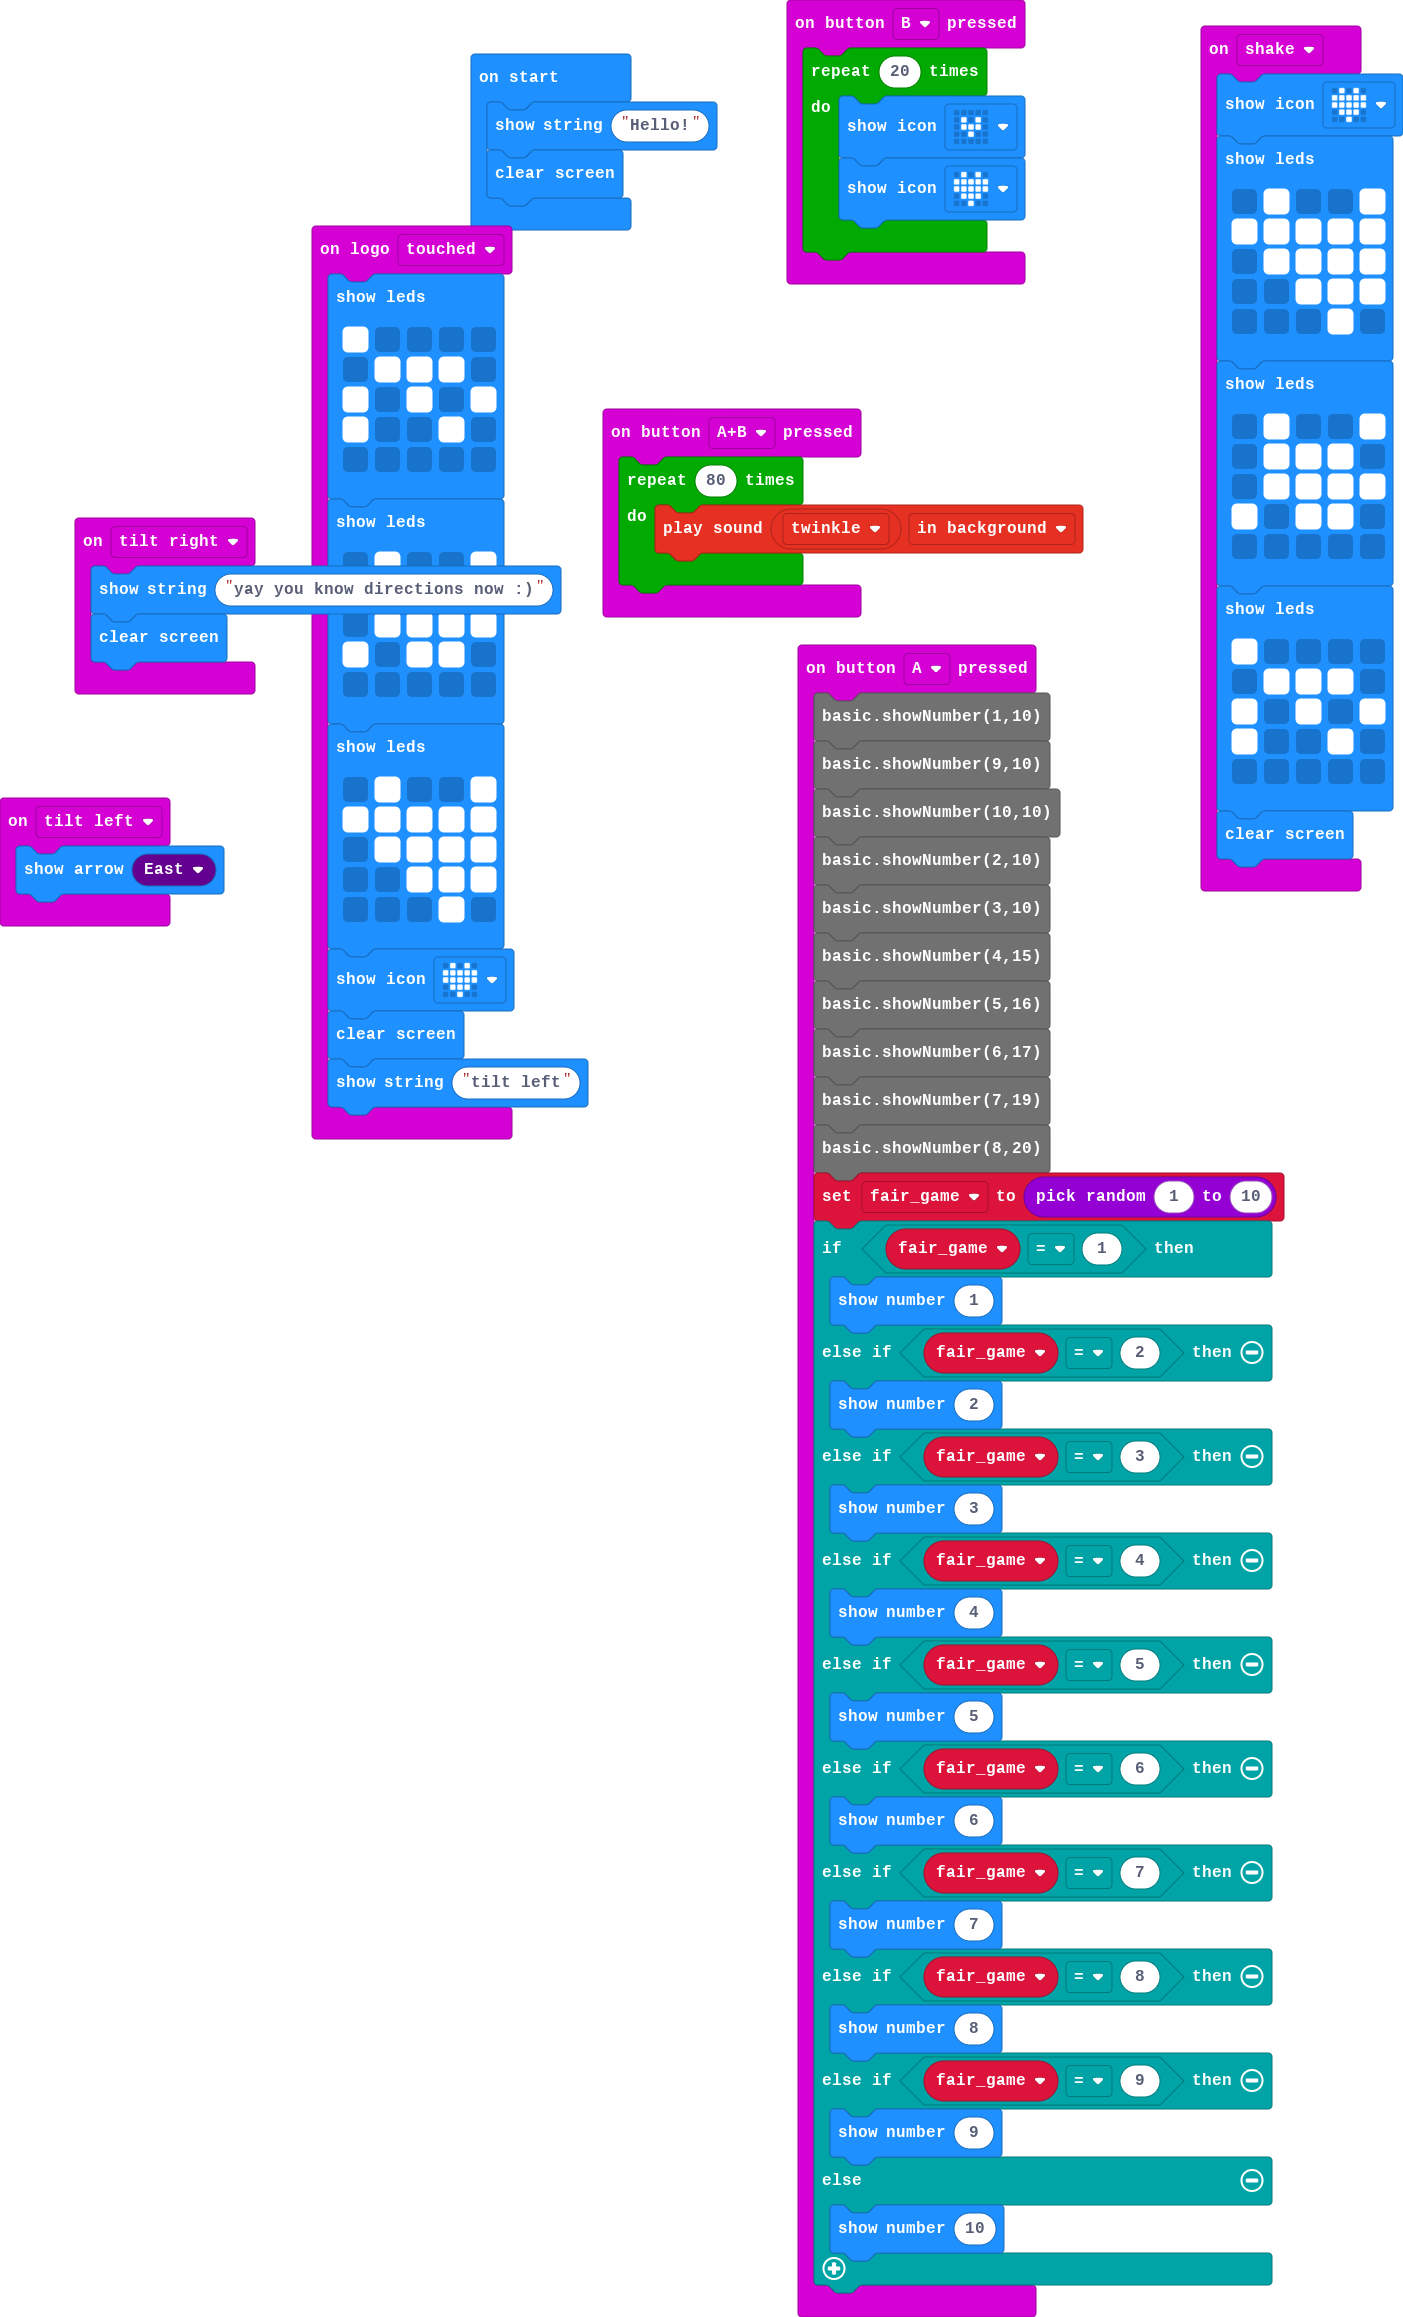
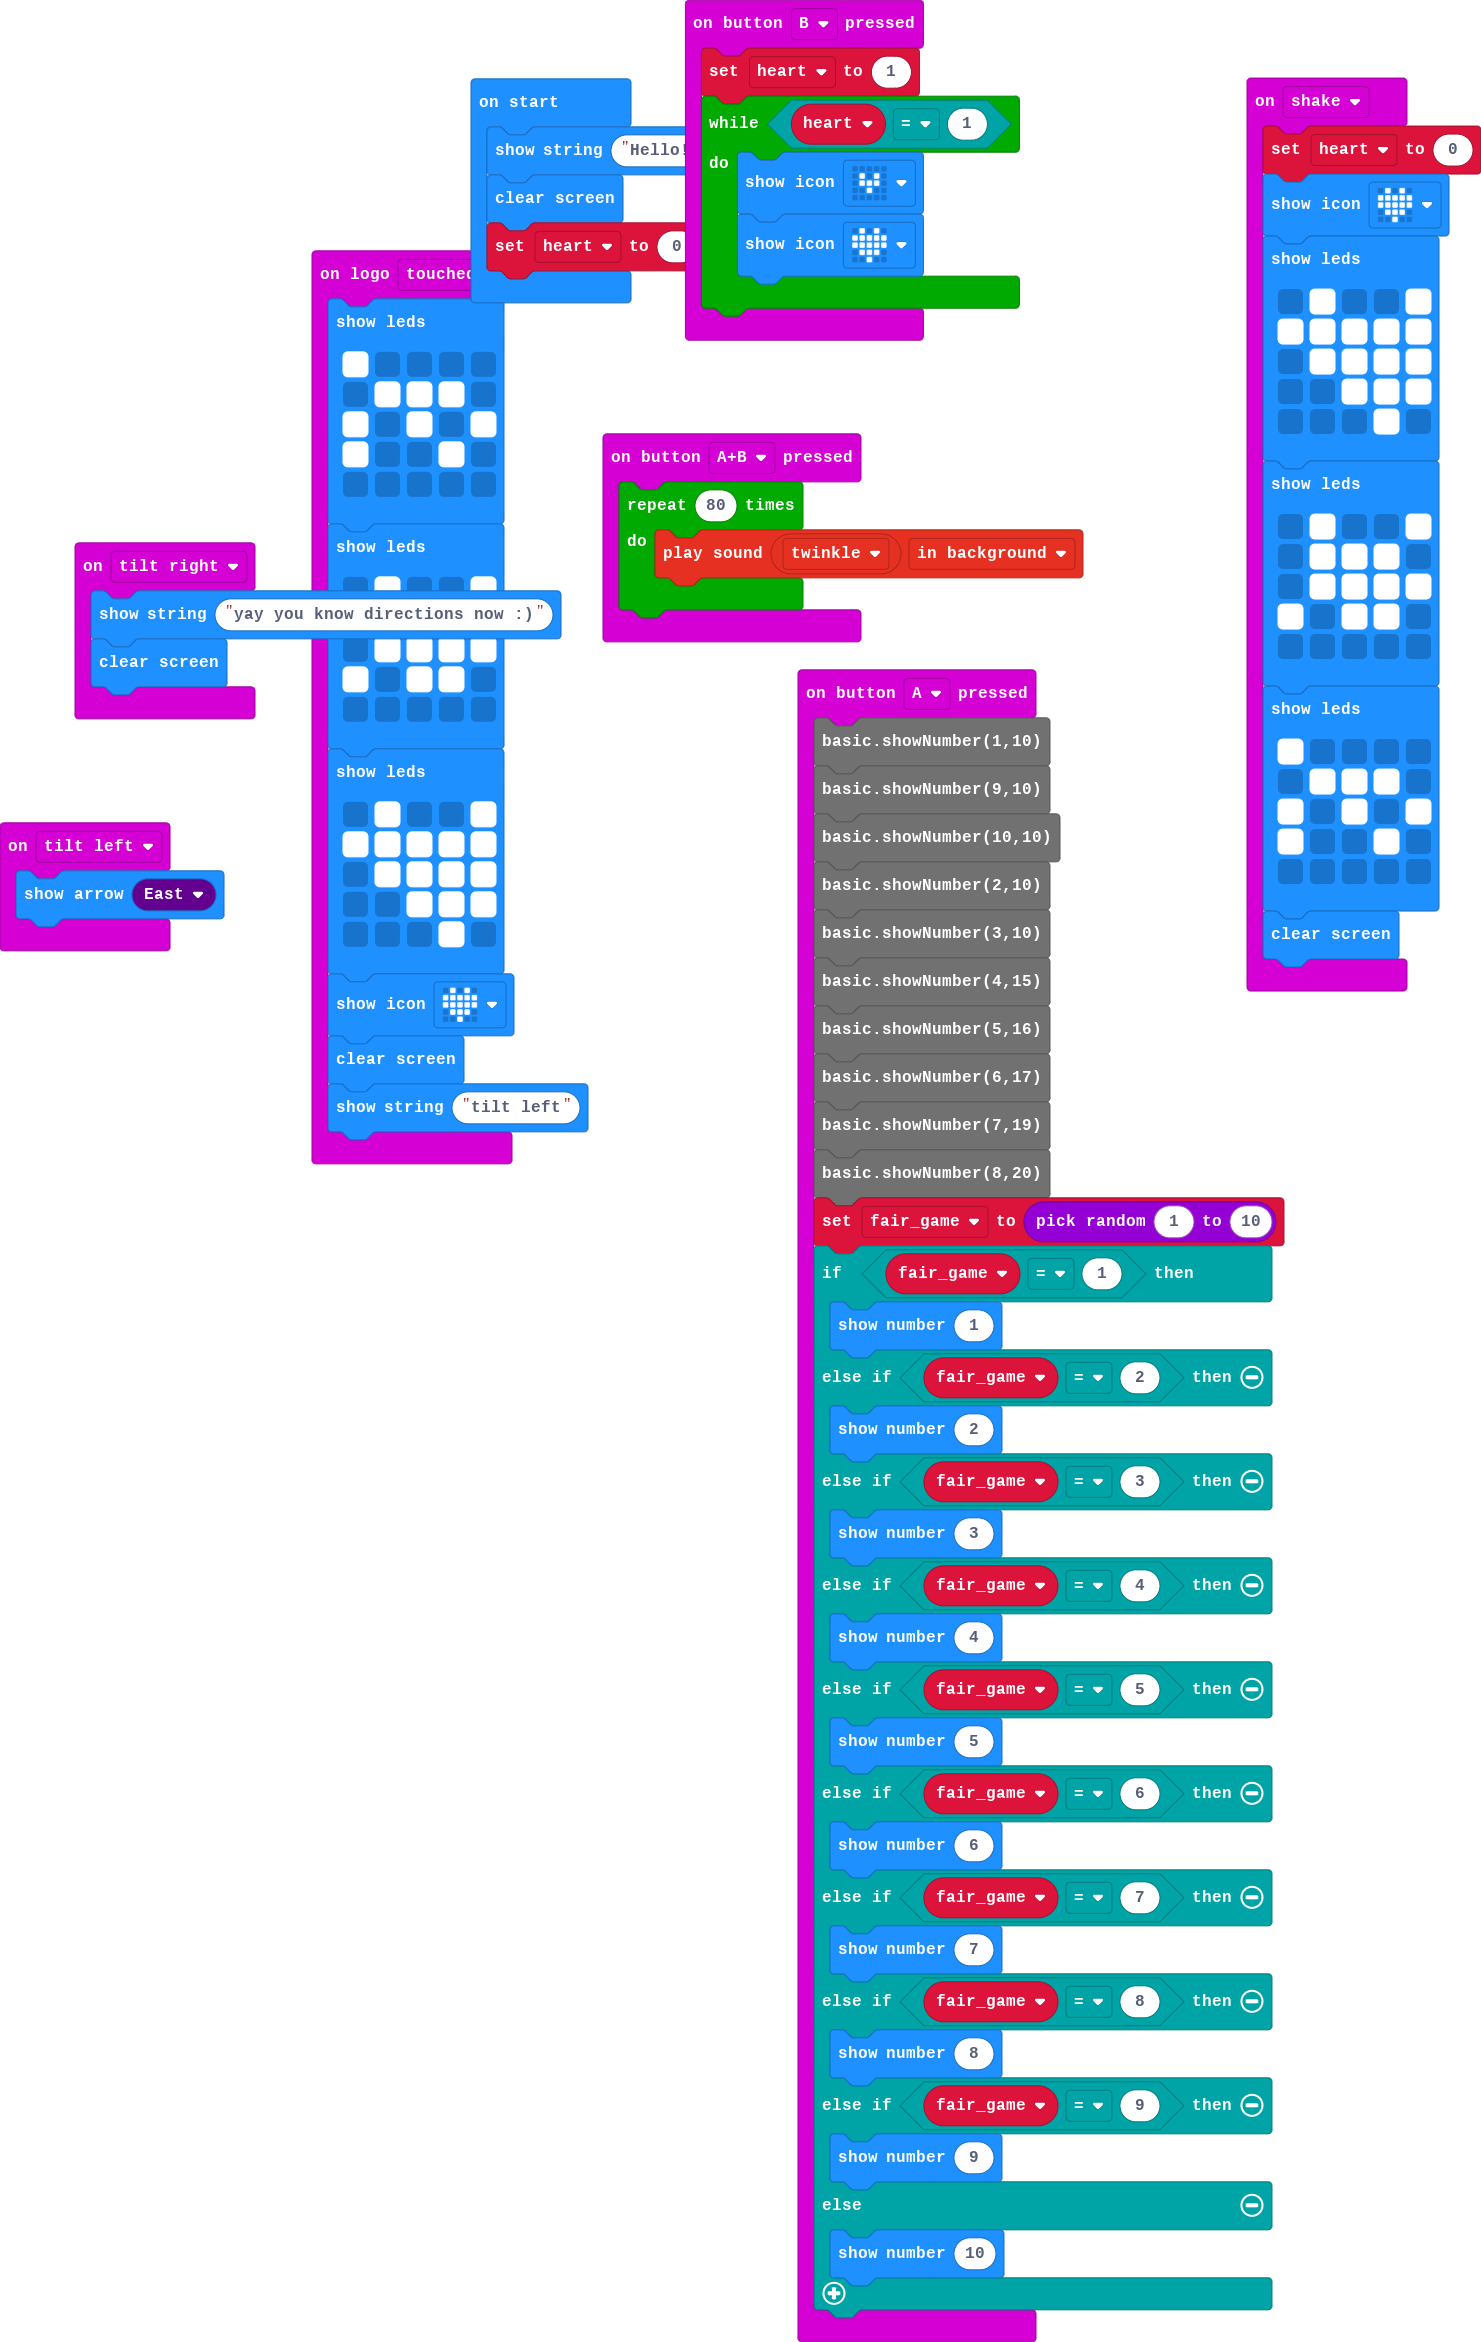
Update main.blocks, main.ts

Changed region(s): [[0.0306, 0.0, 0.9195, 1.0], [0.8275, 0.0, 1.0, 0.435], [0.0, 0.3418, 0.1532, 0.404]]

diff --git a/main.ts b/main.ts
@@ -41,12 +41,14 @@ input.onButtonPressed(Button.AB, function () {
     }
 })
 input.onButtonPressed(Button.B, function () {
-    for (let index = 0; index < 20; index++) {
+    heart = 1
+    while (heart == 1) {
         basic.showIcon(IconNames.SmallHeart)
         basic.showIcon(IconNames.Heart)
     }
 })
 input.onGesture(Gesture.Shake, function () {
+    heart = 0
     basic.showIcon(IconNames.Heart)
     basic.showLeds(`
         . # . . #
@@ -102,5 +104,7 @@ input.onLogoEvent(TouchButtonEvent.Touched, function () {
     basic.showString("tilt left")
 })
 let fair_game = 0
+let heart = 0
 basic.showString("Hello!")
 basic.clearScreen()
+heart = 0
